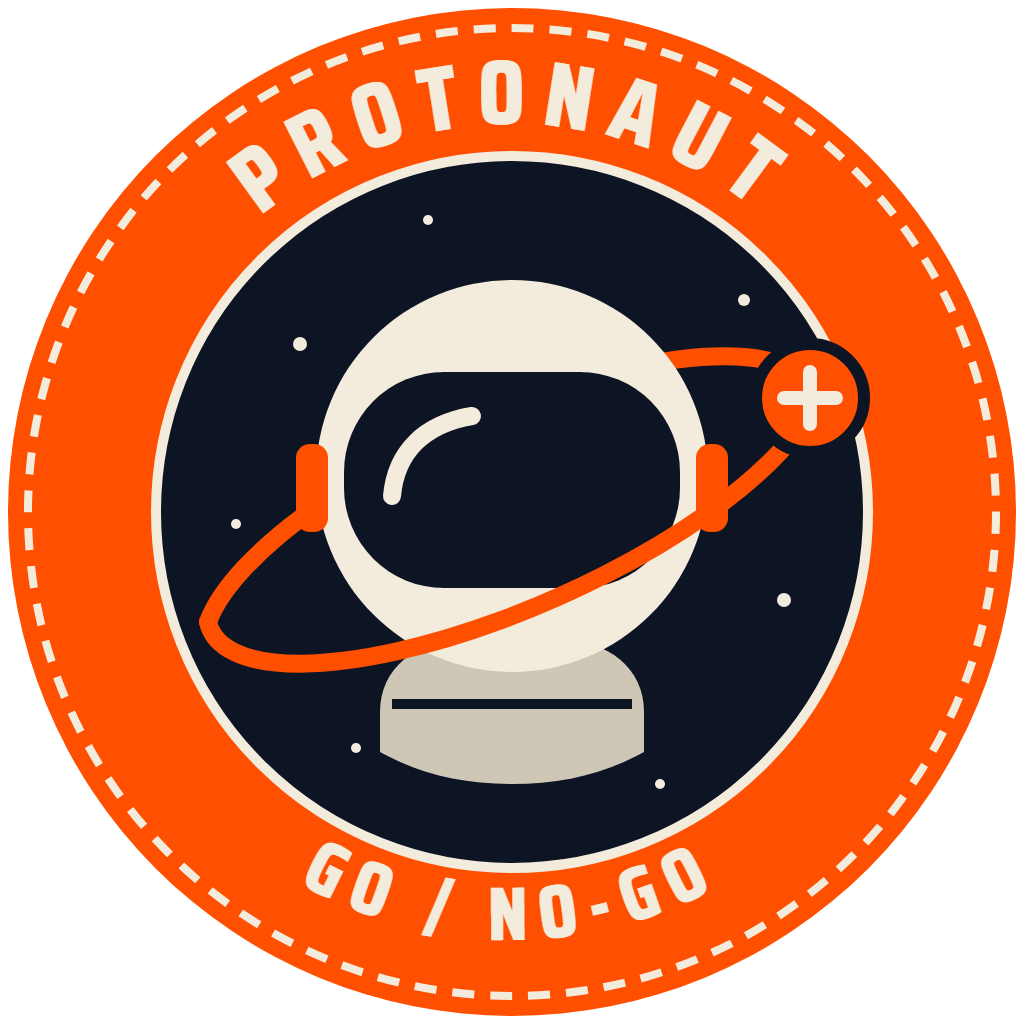
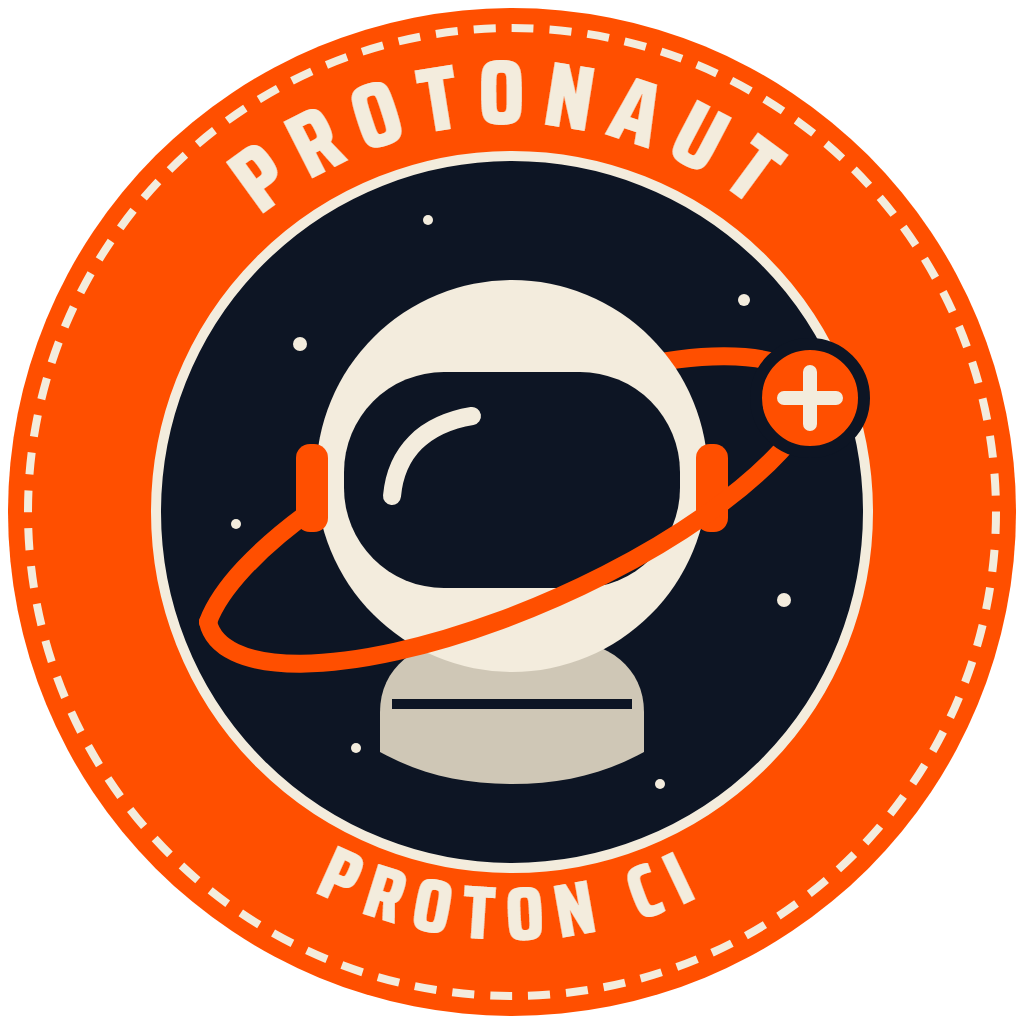
feat: license under Apache-2.0 and replace the go/no-go wording

Changed region(s): [[0.2812, 0.8125, 0.6875, 0.9375]]

diff --git a/site/index.html b/site/index.html
@@ -8,13 +8,13 @@
 <link rel="canonical" href="https://mahan-imanian.github.io/protonaut/">
 <link rel="icon" type="image/png" href="assets/favicon.png">
 <meta property="og:type" content="website">
-<meta property="og:title" content="Protonaut: go / no-go for your Windows game build on Proton">
+<meta property="og:title" content="Protonaut: test your Windows game build on Proton in CI">
 <meta property="og:description" content="Run your build under GE-Proton on every pull request. Crashes, black screens and letterboxing turn the PR red, with screenshots and logs.">
 <meta property="og:url" content="https://mahan-imanian.github.io/protonaut/">
 <meta property="og:image" content="https://mahan-imanian.github.io/protonaut/assets/social-preview.png">
 <meta name="twitter:card" content="summary_large_image">
 <script type="application/ld+json">
-{"@context":"https://schema.org","@type":"SoftwareApplication","name":"Protonaut","applicationCategory":"DeveloperApplication","operatingSystem":"Linux","license":"https://spdx.org/licenses/MIT.html","offers":{"@type":"Offer","price":"0","priceCurrency":"USD"},"url":"https://mahan-imanian.github.io/protonaut/","codeRepository":"https://github.com/Mahan-Imanian/protonaut","description":"GitHub Action and CLI that tests Windows game builds under GE-Proton in CI."}
+{"@context":"https://schema.org","@type":"SoftwareApplication","name":"Protonaut","applicationCategory":"DeveloperApplication","operatingSystem":"Linux","license":"https://spdx.org/licenses/Apache-2.0.html","offers":{"@type":"Offer","price":"0","priceCurrency":"USD"},"url":"https://mahan-imanian.github.io/protonaut/","codeRepository":"https://github.com/Mahan-Imanian/protonaut","description":"GitHub Action and CLI that tests Windows game builds under GE-Proton in CI."}
 </script>
 <script type="application/ld+json">
 {"@context":"https://schema.org","@type":"FAQPage","mainEntity":[
@@ -71,9 +71,9 @@ pre{background:var(--panel);border:1px solid var(--line);padding:18px;overflow-x
 .catch div:hover{background:var(--panel)}
 .catch h3{font-weight:600;font-size:27px;margin-bottom:8px;color:var(--orange)}
 .catch p{margin:0;color:var(--mute);font-size:15px}
-ol.t{list-style:none;padding:0;margin:0;counter-reset:s 5}
-ol.t li{counter-increment:s -1;display:grid;grid-template-columns:70px 1fr;padding:18px 0;border-bottom:1px solid var(--line)}
-ol.t li:before{content:"T-" counter(s);font:800 30px/1 "Saira Condensed";color:var(--orange)}
+ol.t{list-style:none;padding:0;margin:0;counter-reset:s}
+ol.t li{counter-increment:s;display:grid;grid-template-columns:48px 1fr;padding:18px 0;border-bottom:1px solid var(--line)}
+ol.t li:before{content:counter(s);font:800 30px/1 "Saira Condensed";color:var(--orange)}
 table{width:100%;border-collapse:collapse;font-size:15px}
 th,td{text-align:left;padding:12px 10px;border-bottom:1px solid var(--line)}
 th{font:600 20px "Saira Condensed"}
@@ -97,18 +97,18 @@ footer{padding:34px 0;border-top:1px solid var(--line);color:var(--mute);font-si
 <nav><a class="brand" href="#">PROTONAUT</a><div><a href="#start">Quick start</a><a href="#catches">What it catches</a><a href="#faq">FAQ</a><a href="https://github.com/Mahan-Imanian/protonaut">GitHub</a></div></nav>
 <header class="hero">
 <div>
-<h1>Go / no-go for your Windows build <em>on Proton.</em></h1>
+<h1>Test your Windows game build <em>on Proton.</em></h1>
 <p class="lead">Protonaut is a GitHub Action and CLI that runs your game under pinned GE-Proton on every pull request. When a change makes it crash or render black, the PR goes red, with screenshots and logs. You don't need a Steam Deck.</p>
 <a class="cta" href="#start">Add it to your CI &raquo;</a><a class="cta2" href="https://github.com/Mahan-Imanian/protonaut">View on GitHub</a>
 </div>
 <div class="board" aria-label="Example results from the crash test build">
 <div class="bar"><span>protonaut test dist/Windows</span><span>crash fixture, example</span></div>
 <div class="rows" id="rows"></div>
-<div class="call" id="call"><span>HOLD</span></div>
+<div class="call" id="call"><span>RUNNING</span></div>
 </div>
 </header>
 
-<section class="r"><h2>A real run</h2><img src="assets/demo.gif" alt="A terminal running protonaut test on a test build that crashes under Proton, ending in a NO-GO verdict" style="width:100%;height:auto;display:block;border:1px solid var(--line)"><p style="color:var(--mute)">Recorded from a real CI run on one of the test builds. The <a href="https://github.com/Mahan-Imanian/protonaut-demo/pull/1">demo pull request</a> shows the same crash going red, with the report posted as a comment.</p></section>
+<section class="r"><h2>A real run</h2><img src="assets/demo.gif" alt="A terminal running protonaut test on a test build that crashes under Proton, ending with two failures" style="width:100%;height:auto;display:block;border:1px solid var(--line)"><p style="color:var(--mute)">Recorded from a real CI run on one of the test builds. The <a href="https://github.com/Mahan-Imanian/protonaut-demo/pull/1">demo pull request</a> shows the same crash going red, with the report posted as a comment.</p></section>
 
 <section id="start" class="r"><h2>One step in your workflow</h2>
 <div class="two">
@@ -131,8 +131,8 @@ protonaut test dist/Windows --exe MyGame.exe --install</pre><p style="color:var(
 <p style="color:var(--mute)">Missing evidence is never reported as a pass. If a screenshot can't be captured, the check says <code>NOT_TESTED</code>. CI also runs OpenTTD 15.3, a Godot 4.7.2 3D game and Chocolate Doom 3.0.1 through the action. <a href="https://github.com/Mahan-Imanian/protonaut/blob/main/docs/compatibility/real-games.md">See the results.</a></p>
 </section>
 
-<section class="r"><h2>Countdown</h2>
-<ol class="t" reversed>
+<section class="r"><h2>How it works</h2>
+<ol class="t">
 <li>Your build runs under a pinned, checksum-verified GE-Proton release with Mesa's software Vulkan driver on a headless display at 1280x800.</li>
 <li>A control program that draws a known colour runs first. If its frame can't be captured, screenshot checks report NOT_TESTED, not a false black screen.</li>
 <li>Your game runs as an unprivileged user with no network and no CI token. Protonaut records windows, screenshots and the Wine log, then stops every process.</li>
@@ -161,14 +161,14 @@ protonaut test dist/Windows --exe MyGame.exe --install</pre><p style="color:var(
 <details><summary>Is this Valve's Proton?</summary><p>No. Protonaut uses GE-Proton, a community build, because Valve's builds need a Steam login. A game can behave differently under Valve's Proton.</p></details>
 </section>
 
-<footer>Protonaut is an independent community project, not affiliated with or endorsed by Valve. Proton and Steam Deck are trademarks of Valve Corporation. Licensed under MIT or Apache-2.0.</footer>
+<footer>Protonaut is an independent community project, not affiliated with or endorsed by Valve. Proton and Steam Deck are trademarks of Valve Corporation. Licensed under Apache-2.0.</footer>
 </div>
 <script>
 var checks=[["PASS","PN-PE-003 Imported DLLs are available","pass"],["PASS","PN-RUN-001 Game process starts under Proton","pass"],["FAIL","PN-RUN-002 Crashed after 4.1 s","fail"],["FAIL","PN-RUN-003 1 crash signature in the Wine log","fail"],["N/T","PN-HW-001 Frame rate needs real hardware","nt"]];
 var rows=document.getElementById("rows"),call=document.getElementById("call");
-function run(){rows.innerHTML="";call.className="call";call.innerHTML="<span>HOLD</span><small>running checks</small>";
+function run(){rows.innerHTML="";call.className="call";call.innerHTML="<span>RUNNING</span><small>checks in progress</small>";
 checks.forEach(function(c,i){setTimeout(function(){var d=document.createElement("div");d.className="row";d.innerHTML='<b class="s-'+c[2]+'">'+c[0]+"</b><span>"+c[1]+"</span>";rows.appendChild(d)},500+i*750)});
-setTimeout(function(){call.className="call nogo";call.innerHTML="<span>NO-GO</span><small>PR goes red</small>"},500+checks.length*750);
+setTimeout(function(){call.className="call nogo";call.innerHTML="<span>FAILED</span><small>PR goes red</small>"},500+checks.length*750);
 setTimeout(run,500+checks.length*750+4200)}
 run();
 document.querySelectorAll(".copy button").forEach(function(b){b.onclick=function(){navigator.clipboard.writeText(document.getElementById(b.dataset.c).textContent);b.textContent="Copied";setTimeout(function(){b.textContent="Copy"},1400)}});

diff --git a/crates/cli/src/run.rs b/crates/cli/src/run.rs
@@ -417,9 +417,8 @@ fn print_summary(report: &Report, results: &Path, json: bool) -> Result<(), CliE
     let n = &report.summary.counts;
     println!(
         "
-{} {}: {} pass, {} fail, {} warning, {} unknown, {} not tested. Report: {}",
-        verdict_label(report.summary.verdict, color),
-        protonaut_core::report::headline(report),
+{}: {} pass, {} fail, {} warning, {} unknown, {} not tested. Report: {}",
+        headline_label(report, color),
         n.pass,
         n.fail,
         n.warning,
@@ -461,11 +460,12 @@ fn status_label(status: &str, color: bool) -> String {
     paint(&format!("{status:<10}"), code, color)
 }
 
-fn verdict_label(verdict: Verdict, color: bool) -> String {
-    match verdict {
-        Verdict::Pass => paint("GO.", "1;32", color),
-        Verdict::Fail => paint("NO-GO.", "1;31", color),
-    }
+fn headline_label(report: &Report, color: bool) -> String {
+    let code = match report.summary.verdict {
+        Verdict::Pass => "1;32",
+        Verdict::Fail => "1;31",
+    };
+    paint(&protonaut_core::report::headline(report), code, color)
 }
 
 fn verdict_code(report: &Report) -> u8 {
@@ -599,12 +599,10 @@ mod output_tests {
     #[test]
     fn labels_are_plain_without_color() {
         assert_eq!(status_label("FAIL", false), "FAIL      ");
-        assert_eq!(verdict_label(Verdict::Fail, false), "NO-GO.");
-        assert_eq!(verdict_label(Verdict::Pass, false), "GO.");
     }
 
     #[test]
-    fn failures_sort_last_so_they_sit_above_the_verdict() {
+    fn failures_sort_last_so_they_sit_above_the_summary() {
         let mut statuses = ["FAIL", "PASS", "WARNING", "NOT_TESTED", "UNKNOWN"];
         statuses.sort_by_key(|s| severity(s));
         assert_eq!(

diff --git a/README.md b/README.md
@@ -5,14 +5,14 @@
   <img alt="Protonaut" src="docs/assets/wordmark-light.png" width="480">
 </picture>
 
-**Go / no-go for your Windows game build on Proton, on every pull request.**
+**Test your Windows game build on Proton, on every pull request.**
 
 Protonaut runs your build under pinned GE-Proton on a headless Linux display in CI. When a change makes it crash, render black or open the wrong window, the PR goes red with screenshots and logs. You don't need a Steam Deck.
 
 [![CI](https://github.com/Mahan-Imanian/protonaut/actions/workflows/ci.yml/badge.svg)](https://github.com/Mahan-Imanian/protonaut/actions/workflows/ci.yml)
 [![Real games](https://github.com/Mahan-Imanian/protonaut/actions/workflows/real-games.yml/badge.svg)](https://github.com/Mahan-Imanian/protonaut/actions/workflows/real-games.yml)
 [![Latest release](https://img.shields.io/github/v/release/Mahan-Imanian/protonaut?color=FF4F00&label=release)](https://github.com/Mahan-Imanian/protonaut/releases/latest)
-[![License: MIT or Apache-2.0](https://img.shields.io/badge/license-MIT%20or%20Apache--2.0-0D1524)](#license)
+[![License: Apache-2.0](https://img.shields.io/badge/license-Apache--2.0-0D1524)](LICENSE)
 
 [**Website**](https://mahan-imanian.github.io/protonaut/) ·
 [Quick start](#quick-start) ·
@@ -20,7 +20,7 @@ Protonaut runs your build under pinned GE-Proton on a headless Linux display in 
 [All checks](docs/reference/checks.md) ·
 [Changelog](CHANGELOG.md)
 
-<img src="docs/assets/demo.gif" alt="A terminal running protonaut test on a build that crashes under Proton. The run ends in a NO-GO verdict with two failures." width="860">
+<img src="docs/assets/demo.gif" alt="A terminal running protonaut test on a build that crashes under Proton. The run ends with two failures." width="860">
 
 </div>
 
@@ -136,7 +136,7 @@ Version 0.2 is **experimental**. The CLI, report schema and action inputs may ch
 
 ## License
 
-Licensed under either of the [Apache License, Version 2.0](LICENSE-APACHE) or the [MIT license](LICENSE-MIT), at your option. Unless you state otherwise, any contribution you submit for inclusion is dual licensed the same way, without additional terms.
+Licensed under the [Apache License, Version 2.0](LICENSE). If you redistribute Protonaut or a modified version, you must keep the copyright notices and the [NOTICE](NOTICE) file and mark the files you changed. The license grants no rights to the Protonaut name or logo. Contributions are licensed the same way unless you state otherwise.
 
 GE-Proton, Wine, DXVK and Mesa are separate projects under their own licenses. Protonaut downloads them at test time and does not redistribute them.
 

diff --git a/CHANGELOG.md b/CHANGELOG.md
@@ -6,6 +6,13 @@ The format is based on [Keep a Changelog](https://keepachangelog.com/en/1.1.0/),
 
 ## [Unreleased]
 
+## [0.2.1] - 2026-11-05
+
+### Changed
+
+- **Licensed under Apache-2.0 only**, with a `NOTICE` file. Versions up to 0.2.0 remain available under the MIT OR Apache-2.0 terms they shipped with.
+- `protonaut test` ends with a colored summary line instead of a GO or NO-GO label.
+
 ## [0.2.0] - 2026-11-05
 
 ### Changed
@@ -62,7 +69,8 @@ The format is based on [Keep a Changelog](https://keepachangelog.com/en/1.1.0/),
 - GitHub Action (`uses: Mahan-Imanian/steamos-preflight@<ref>`) that runs the build as an unprivileged user with no network and no CI token, uploads results and writes a job summary (`fail-job: "false"` keeps its outputs available), plus a `comment` action that posts or updates one PR comment from `report.json`.
 - Reproducible Windows test fixtures and an end-to-end suite covering crash, startup failure, missing asset, missing DLL, black screen, letterbox and dialog cases.
 
-[Unreleased]: https://github.com/Mahan-Imanian/protonaut/compare/v0.2.0...HEAD
+[Unreleased]: https://github.com/Mahan-Imanian/protonaut/compare/v0.2.1...HEAD
+[0.2.1]: https://github.com/Mahan-Imanian/protonaut/releases/tag/v0.2.1
 [0.2.0]: https://github.com/Mahan-Imanian/protonaut/releases/tag/v0.2.0
 [0.1.1]: https://github.com/Mahan-Imanian/protonaut/releases/tag/v0.1.1
 [0.1.0]: https://github.com/Mahan-Imanian/protonaut/releases/tag/v0.1.0

diff --git a/CONTRIBUTING.md b/CONTRIBUTING.md
@@ -38,9 +38,9 @@ what happened on the device. These reports are how the checks get better.
 
 ## Licensing of contributions
 
-Protonaut is licensed under MIT OR Apache-2.0. Unless you explicitly
+Protonaut is licensed under Apache-2.0. Unless you explicitly
 state otherwise, any contribution intentionally submitted for inclusion by
-you, as defined in the Apache-2.0 license, shall be dual licensed as above,
+you, as defined in the Apache-2.0 license, shall be licensed the same way,
 without any additional terms or conditions.
 
 ## Conduct

diff --git a/docs/reference/action.md b/docs/reference/action.md
@@ -111,7 +111,7 @@ A complete workflow is in [examples/github-actions.yml](../examples/github-actio
 
 ## Pinning
 
-`@v0` follows the latest 0.x release, and `@v0.2.0` pins one version. Both install the
+`@v0` follows the latest 0.x release, and `@v0.2.1` pins one version. Both install the
 release binary. Before running it, the action checks it against the release's
 `SHA256SUMS` and verifies its GitHub build provenance attestation: it must have
 been built by this repository's `release.yml` workflow from the matching

diff --git a/fixtures/README.md b/fixtures/README.md
@@ -41,7 +41,7 @@ the committed binaries differ from the source.
 
 ## Licensing
 
-The fixture sources are part of Protonaut (MIT OR Apache-2.0). The
+The fixture sources are part of Protonaut (Apache-2.0). The
 binaries are statically linked with the MinGW-w64 runtime and GCC's
 libstdc++, which the GCC Runtime Library Exception and the MinGW-w64
 runtime licences allow to be distributed in compiled programs.

diff --git a/docs/images/ATTRIBUTION.md b/docs/images/ATTRIBUTION.md
@@ -1,7 +1,7 @@
 # Image attribution
 
 - `report.png` shows a Protonaut report for this project's own
-  test fixture (MIT OR Apache-2.0, like the rest of this repository).
+  test fixture (Apache-2.0, like the rest of this repository).
 - `real-godot-d3d12.png` is a frame captured by Protonaut from the
   "Platformer 3D" demo of
   [godot-demo-projects](https://github.com/godotengine/godot-demo-projects),
